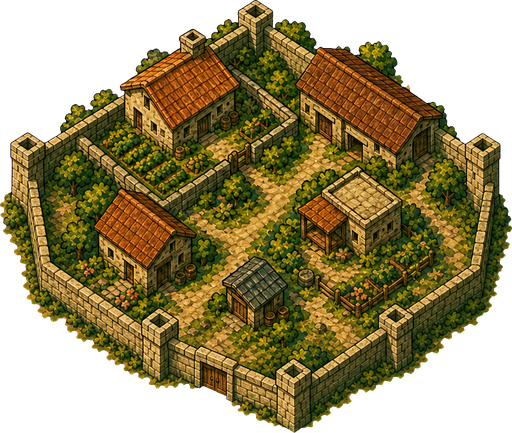
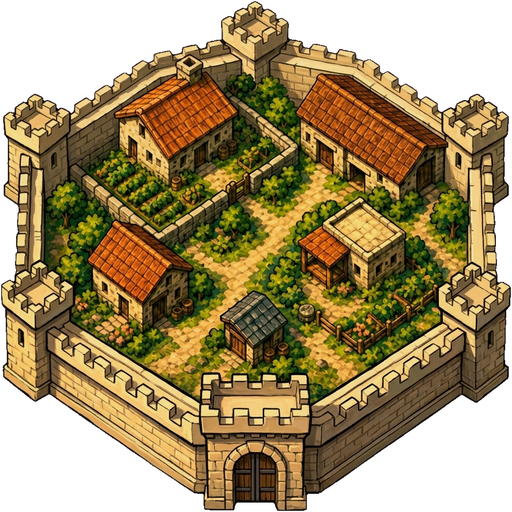
Gouache polish: all 28 units, thick-walled t1_w, land resources, wide rivers
- Paint all 19 remaining Civ1 units in matching 65-deg overhead gouache (gunpowder, cavalry, civil, modern, air, and naval ships), cut by whole-sheet components at unified tabletop scale with royal-blue player-colour accents
- Repaint small walled town (t1_w.png, sizes 2-3) with thicker warm sandstone walls, corner towers, arched gate, and no outer bushes so walls read clearly at game size
- Paint native gouache tribal hut and 5 land resources (oasis, horses, wheat, pheasant, caribou)
- TopView.cs: anchor diplomat on feet, treat mech_infantry as vehicle, widen cavalry base slightly, and skip fallback resource grading for native theme art
- Port PaintedMap.RiverCentre from d8191d8 so 2-cell-wide rivers paint as one river without rungs or zero-length division
- Add TOPVIEW_SHOWCASE harness mode and side-by-side aesthetic-check boards (31-34)

diff --git a/src/Graphics/TopView.cs b/src/Graphics/TopView.cs
@@ -28,7 +28,7 @@ namespace OpenCivOne.Graphics
 			"submarine", "carrier", "transport", "nuclear", "diplomat", "caravan" };
 
 		// as compose.py: men on foot stand on their feet, ships sit in the water by their hulls
-		private static readonly HashSet<string> Foot = new HashSet<string> { "phalanx", "legion", "militia", "musketeers", "riflemen", "mech_infantry" };
+		private static readonly HashSet<string> Foot = new HashSet<string> { "phalanx", "legion", "militia", "musketeers", "riflemen", "diplomat" };
 		private static readonly HashSet<string> Ships = new HashSet<string> { "trireme", "sail", "frigate", "ironclad", "cruiser", "battleship", "submarine", "carrier", "transport" };
 		// the sheet's pixels per cell: its largest unit, a ship, is about 300 pixels long and a cell across
 		private const float UnitScale = 0.92f / 306;
@@ -39,7 +39,7 @@ namespace OpenCivOne.Graphics
 			["phalanx"] = 0.2f, ["legion"] = 0.2f, ["militia"] = 0.2f, ["settlers"] = 0.38f, ["knights"] = 0.3f, ["chariot"] = 0.32f,
 			["catapult"] = 0.32f, ["trireme"] = 0.44f, ["sail"] = 0.42f,
 			// units the theme has not painted, by kind
-			["musketeers"] = 0.2f, ["riflemen"] = 0.2f, ["diplomat"] = 0.2f, ["cavalry"] = 0.3f, ["caravan"] = 0.42f,
+			["musketeers"] = 0.2f, ["riflemen"] = 0.2f, ["diplomat"] = 0.2f, ["cavalry"] = 0.33f, ["caravan"] = 0.42f,
 			["cannon"] = 0.32f, ["artillery"] = 0.32f, ["armor"] = 0.34f, ["mech_infantry"] = 0.34f, ["fighter"] = 0.34f,
 			["bomber"] = 0.38f, ["nuclear"] = 0.24f, ["frigate"] = 0.42f, ["ironclad"] = 0.42f, ["cruiser"] = 0.44f,
 			["battleship"] = 0.46f, ["submarine"] = 0.42f, ["carrier"] = 0.46f, ["transport"] = 0.44f,
@@ -202,16 +202,16 @@ namespace OpenCivOne.Graphics
 
 				if (path != null && Decode(path) is SKBitmap raw)
 				{
-					using SKBitmap toned0 = own ? raw.Copy() : Toned(raw);
-					// fish sit cold and silver on the warm sea, and coal and peat are near-black lumps on the yellow
-					// ground: both are warmed and lifted towards the painting's earth colours, and the fish drawn smaller
-					string res = ResourceNames[i];
-					using SKBitmap toned = res == "fish" ? Graded(toned0, 0.25f, 1.12f, 0.98f, 0.8f) :
-						res is "coal" or "peat" ? Graded(toned0, 0.38f, 1.14f, 1.0f, 0.82f) : toned0.Copy();
-					view.resources[i] = Resize(toned, c * (res == "fish" ? 0.36f : 0.46f) / Math.Max(toned.Width, toned.Height));
-
-					if (!own)
-						raw.Dispose();
+					using (raw)
+					{
+						using SKBitmap toned0 = own ? raw.Copy() : Toned(raw);
+						// borrowed fish sit cold and silver on the warm sea, and coal and peat are near-black lumps on the
+						// yellow ground: warm and lift them when borrowed, and draw fish smaller
+						string res = ResourceNames[i];
+						using SKBitmap toned = !own && res == "fish" ? Graded(toned0, 0.25f, 1.12f, 0.98f, 0.8f) :
+							!own && res is "coal" or "peat" ? Graded(toned0, 0.38f, 1.14f, 1.0f, 0.82f) : toned0.Copy();
+						view.resources[i] = Resize(toned, c * (res == "fish" ? 0.36f : 0.46f) / Math.Max(toned.Width, toned.Height));
+					}
 				}
 			}
 

diff --git a/src/Graphics/PaintedMap.cs b/src/Graphics/PaintedMap.cs
@@ -1824,7 +1824,7 @@ namespace OpenCivOne.Graphics
 					if (grid.At(i, j) != River)
 						continue;
 
-					float ax = (i * this.cell) + half, ay = (j * this.cell) + half;
+					(float ax, float ay) = this.RiverCentre(grid, i, j);
 					bool joined = false;
 
 					foreach ((int nx, int ny) in new[] { (0, -1), (1, 0), (0, 1), (-1, 0) })
@@ -1833,7 +1833,9 @@ namespace OpenCivOne.Graphics
 
 						if (terrain == River || terrain == Water)
 						{
-							best = Math.Min(best, SegmentDistance(x, y, ax, ay, ax + (nx * this.cell), ay + (ny * this.cell)));
+							(float bx, float by) = terrain == River ? this.RiverCentre(grid, i + nx, j + ny) :
+								(((i + nx) * this.cell) + half, ((j + ny) * this.cell) + half);
+							best = Math.Min(best, SegmentDistance(x, y, ax, ay, bx, by));
 							joined = true;
 						}
 					}
@@ -1846,10 +1848,37 @@ namespace OpenCivOne.Graphics
 			return best;
 		}
 
+		/// <summary>
+		/// Where a river cell's course runs through: its middle, or, where two river cells lie side by side running the
+		/// same way (a river two cells wide), the line between them, so they paint as one river rather than two parallel
+		/// channels joined by rungs. The way a cell runs is the longer of its runs of river across and down.
+		/// </summary>
+		private (float X, float Y) RiverCentre(TerrainGrid grid, int i, int j)
+		{
+			float half = this.cell / 2f, x = (i * this.cell) + half, y = (j * this.cell) + half;
+			int R(int di, int dj) => grid.At(i + di, j + dj) == River ? 1 : 0;
+			int down = R(0, -1) + R(0, 1) + R(0, -2) + R(0, 2), across = R(-1, 0) + R(1, 0) + R(-2, 0) + R(2, 0);
+
+			if (down > across)
+			{
+				// running down: a neighbour to the side that also runs down is the other half of the same river
+				int right = R(1, 0) * Math.Max(R(1, -1), R(1, 1)), left = R(-1, 0) * Math.Max(R(-1, -1), R(-1, 1));
+				x += (right - left) * half;
+			}
+			else if (across > down)
+			{
+				int below = R(0, 1) * Math.Max(R(-1, 1), R(1, 1)), above = R(0, -1) * Math.Max(R(-1, -1), R(1, -1));
+				y += (below - above) * half;
+			}
+
+			return (x, y);
+		}
+
 		private static float SegmentDistance(float x, float y, float ax, float ay, float bx, float by)
 		{
-			float dx = bx - ax, dy = by - ay;
-			float t = Math.Clamp((((x - ax) * dx) + ((y - ay) * dy)) / ((dx * dx) + (dy * dy)), 0, 1);
+			float dx = bx - ax, dy = by - ay, length = (dx * dx) + (dy * dy);
+			// two halves of a wide river share their point: no segment, and no division by zero
+			float t = length > 0 ? Math.Clamp((((x - ax) * dx) + ((y - ay) * dy)) / length, 0, 1) : 0;
 			float ex = x - (ax + (t * dx)), ey = y - (ay + (t * dy));
 
 			return MathF.Sqrt((ex * ex) + (ey * ey));

diff --git a/tests/HDLayerTests/Program.cs b/tests/HDLayerTests/Program.cs
@@ -1526,6 +1526,47 @@ GBitmap other4()
 			using var seaFile = File.Create(Path.ChangeExtension(battleOut, null) + "-sea.png");
 			seaStrip.Encode(seaFile, SKEncodedImageFormat.Png, 100);
 		}
+
+		// TOPVIEW_SHOWCASE: all 28 units in Blue and Red, all 11 resources + hut, and all 6 walled town steps
+		if (Environment.GetEnvironmentVariable("TOPVIEW_SHOWCASE") is string showOut)
+		{
+			using SKBitmap showGround = SKBitmap.Decode(engineFile).Copy(SKColorType.Bgra8888);
+			var showScene = new IsoView.Scene();
+			for (int t = 0; t < 14; t++)
+			{
+				showScene.Units.Add((2 + t, 1, t, Blue));
+				showScene.Units.Add((2 + t, 2, t, Red));
+			}
+			for (int t = 14; t < 28; t++)
+			{
+				showScene.Units.Add((2 + (t - 14), 4, t, Blue));
+				showScene.Units.Add((2 + (t - 14), 5, t, Red));
+			}
+			// Row 7: hut at x=2, resources 0..10 at x=4..14
+			showScene.Terrain = (x, y) => (y == 7 && x >= 4 && x <= 14) ? (x - 4) : 2;
+			showScene.Feature = (x, y) => (y == 7 && x == 2) ? 2 : (y == 7 && x >= 4 && x <= 14) ? 1 : 0;
+			// Row 9: all 6 walled town steps (sizes 1, 3, 5, 7, 9, 14)
+			var wSizes = new[] { (3, "Hamlet", 1), (5, "Ur", 3), (7, "Mari", 5), (9, "Nineveh", 7), (11, "Babylon", 9), (13, "Thebes", 14) };
+			var wSet = new HashSet<(int, int)>();
+			foreach (var (cx, nm, sz) in wSizes)
+			{
+				showScene.Cities.Add((cx, 9, nm, sz, Blue));
+				wSet.Add((cx, 9));
+			}
+			showScene.Walls = (x, y) => wSet.Contains((x, y));
+			top.Render(showGround.Width / 128f, showGround.Height / 128f, showScene);
+			uint[] sOver = top.Pixels;
+			for (int y = 0; y < showGround.Height; y++)
+				for (int x = 0; x < showGround.Width; x++)
+				{
+					uint o = sOver[(y * showGround.Width) + x], a = o >> 24;
+					SKColor g = showGround.GetPixel(x, y);
+					uint Mix(uint top8, byte under) => Math.Min(255u, top8 + ((under * (255 - a)) + 127) / 255);
+					showGround.SetPixel(x, y, new SKColor((byte)Mix((o >> 16) & 0xff, g.Red), (byte)Mix((o >> 8) & 0xff, g.Green), (byte)Mix(o & 0xff, g.Blue)));
+				}
+			using var showFile = File.Create(showOut);
+			showGround.Encode(showFile, SKEncodedImageFormat.Png, 100);
+		}
 	}
 
 	string? output = Environment.GetEnvironmentVariable("PAINTED_PREVIEW");

diff --git a/themes/gouache/preview/topview/README.md b/themes/gouache/preview/topview/README.md
@@ -17,7 +17,7 @@ Gameplay marks have painted forms:
 - a stack shows a second base behind;
 - a unit with an order in progress shows its letter on a paper tag.
 
-The gouache set has nine units and no huts or resources of its own. The other 19 units, the huts and the resources come from the default painted set, toned brighter and sized to the gouache unit of their kind, so the musketeers stand as tall as a phalanx. The grassland shield is drawn smaller and quieter.
+All 28 Civ1 units now have native gouache miniatures painted at the same ~65-degree overhead angle, shared scale, dark ink outlines and royal-blue player-colour gear (`units/sheet_foot_b.png`, `sheet_gunpowder.jpg`, `sheet_modern.jpg`, `sheet_ships_a.jpg`, `sheet_ships_b.jpg`). The tribal hut and five land resources (`oasis`, `horses`, `wheat`, `pheasant`, `caribou`) also have native gouache paintings (`resources/sheet_land.jpg`); the remaining six mineral/coast/sea resources (`coal`, `peat`, `gold`, `gems`, `seal`, `fish`) still use the toned fallback set. The grassland shield is drawn smaller and quieter.
 
 | File | Shows |
 | --- | --- |
@@ -44,6 +44,10 @@ The gouache set has nine units and no huts or resources of its own. The other 19
 | `28_ingame_name_over_active_unit.png` | A blinking unit inside Rome, its ring on and off: the name stays on top. |
 | `29_ingame_final.jpg` | The whole map window in game with everything above. |
 | `30_resources_hut_hamlet_before_after.jpg` | In game, before (left) and after (right): fish smaller and warmer, coal lifted from a black lump into the ground's colours, the hut smaller, the size-1 hamlet larger. |
+| `31_all_28_units_blue_red_2x.png` | All 28 Civ1 units (9 original + 19 newly painted gouache miniatures) rendered by `TopView` in Blue and Red at 2x (`TOPVIEW_SHOWCASE`). |
+| `32_walled_towns_t1w_before_after.png` | Walled towns before (top) and after (bottom) repainting `t1_w.png` (sizes 2–3, Ur) with thicker sandstone walls, corner towers, and no outer bushes. |
+| `33_units_native_vs_borrowed_before_after.png` | Before (top, borrowed side-on sprites) vs after (bottom, native 65° gouache miniatures) for musketeers, riflemen, cavalry, cannon, diplomat, caravan, and armor beside phalanx, knights, and catapult. |
+| `34_resources_hut_1x_3x.png` | Native gouache hut and 5 land resources (`oasis`, `horses`, `wheat`, `pheasant`, `caribou`) alongside the 6 remaining fallback resources (`coal`, `gold`, `seal`, `peat`, `gems`, `fish`) at 1x and 3x. |
 | `24_painted_effects_check.png` | The drawn effects after repainting them as dabs: the fortified earth bank, a stack's second base, and battle smoke on land and sea. |
 | `19_ingame_babylon_captured.jpg`, `20_ingame_captured_city_screen.jpg` | A Roman legion captures Babylon at size 3: the town keeps its picture and clearing and changes to a white Roman badge at size 2; its city screen shows the nearby Babylonian units in green. |
 | `21_sea_battle_frames_harness.png` | A battle at sea: a red trireme attacks a blue sailing ship and loses, greying and fading under smoke on the water. |
@@ -68,14 +72,13 @@ Each element on the map, judged against `compose.py`'s renders and checked in th
 
 | Element | Verdict |
 | --- | --- |
-| Painted ground, coasts, rivers, moving water | Unchanged painted map; shows between all objects. |
+| Painted ground, coasts, rivers, moving water | Unchanged painted map, plus `PaintedMap.RiverCentre` ported so 2-cell-wide rivers paint as one river instead of two parallel channels joined by rungs. |
 | Towns, sizes 1 to 13 | The hamlet is drawn a little larger than in the renders (half a cell) so it reads at game size (`30`). |
 | Towns (ladder) | Right ladder picture for each size, in a clearing scaled to the town (`17`, `13`). |
-| Walled towns | Walled pictures at every step. The walls run round each picture's very edge, which `compose.py`'s edge softening eats away on small towns, so a walled picture's outline is softened only lightly and its edge band stays solid: the painted walls, towers and gates show from size 2 up (`18`, `22`). At sizes 2 and 3 the walled town is about 37 pixels across and its painted wall is under a pixel wide, so it barely shows; brightening its stone made no visible difference. Only a repainted small walled town with thicker walls would change that. |
+| Walled towns | Walled pictures at every step. `t1_w.png` (sizes 2–3) was repainted with thicker warm sandstone walls, bold square corner towers, an arched gate, and no outer bushes (`32`), so painted walls now read clearly from size 2 all the way to size 14. |
 | Size badge and name | Same size, place and type as the renders, in each player's colour; white Roman badges read on all grounds. |
-| The nine gouache units | Same scale, anchors and bases as the renders, in all eight player colours. |
-| The other 19 units | Default painted set, sized by kind and colour-matched to the gouache units' measured lightness, contrast and saturation (`26`); they stand on bases like the gouache units, the caravan's driver and camel on one. Their brushwork is a little finer than gouache, which only painting them anew would change. |
-| Huts, resources, grassland shield | Painted objects, toned; fish warmed and smaller, coal and peat lifted out of black, the hut in scale with a hamlet (`30`). The shield is painted in the towns' terracotta with a gold rim, lit and soft-edged (`27`). |
+| All 28 gouache units | All 28 units are now native 65° overhead gouache miniatures at one shared scale, anchored on miniature bases in all player colours (`31`, `33`). Submarine hull steel is desaturated so only its conning-tower band and pennant take player colour; diplomat anchored on feet and mech infantry as vehicle. |
+| Huts, resources, grassland shield | Tribal hut and 5 land resources (`oasis`, `horses`, `wheat`, `pheasant`, `caribou`) are native gouache (`34`). The other 6 resources (`coal`, `peat`, `gold`, `gems`, `seal`, `fish`) remain on the toned fallback set (`30`, `34`). The grassland shield is painted in the towns' terracotta with a gold rim (`27`). |
 | Unit states (active, sentry, fortified, stack, orders) | Painted forms: the fortified bank and battle sparks and smoke are laid on as soft dabs of paint with light from the top left, not flat strokes (`24`); a stack's second base peeks out behind. Checked in game for active and fortified. |
 | Scrolling | While the ground is redrawn, the painted objects are hidden for a moment instead of standing on the old cells. |
 | Town names | Written after the units, so a unit in a town never covers its name (`28`). |
